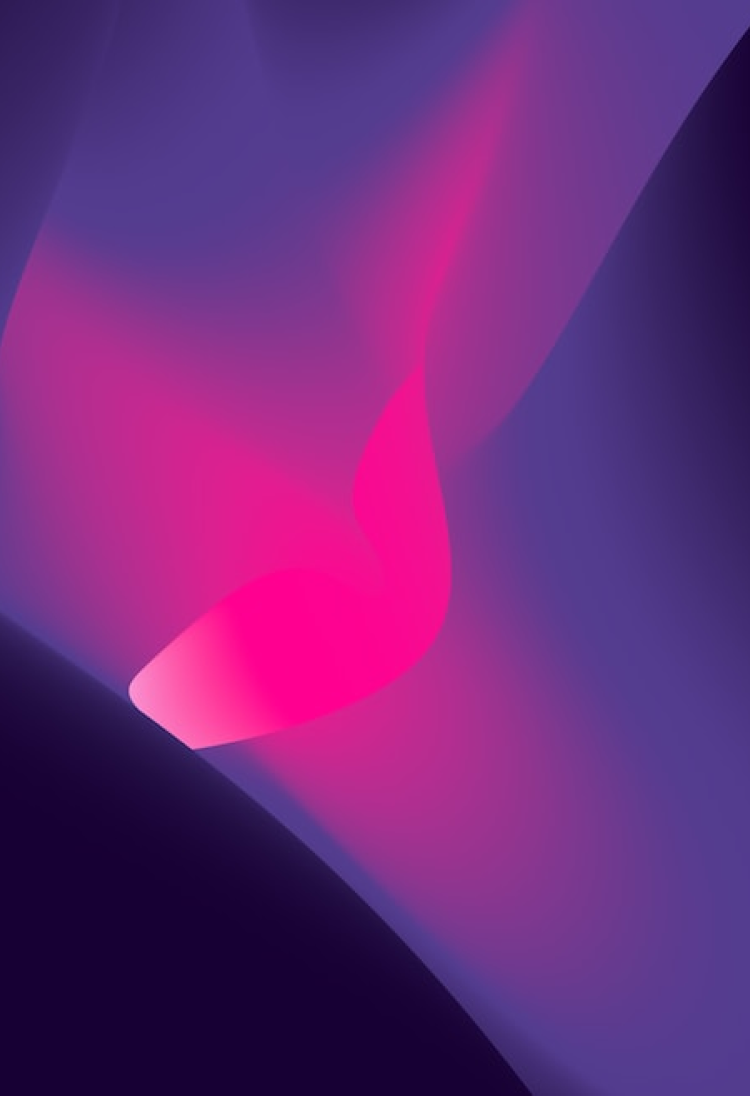
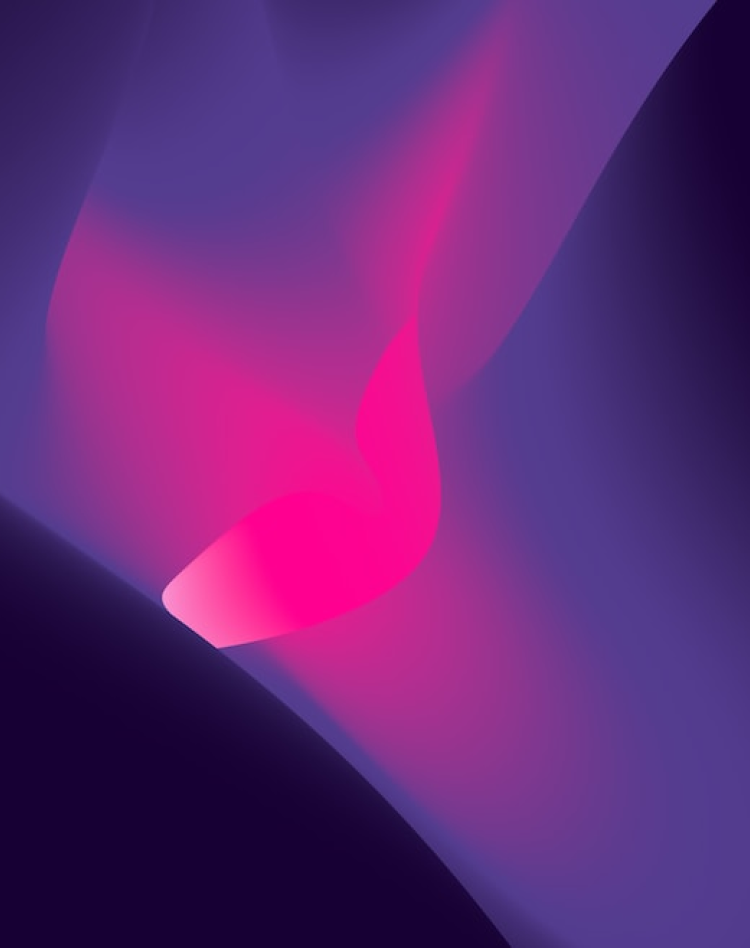
no message

diff --git a/src/login2.html b/src/login2.html
@@ -39,28 +39,27 @@
                 </h1>
                 <!-- logo -->
 
-                <div class="absolute top-[117px] left-6 z-50">
-                    <strong class="text-white block w-[284px] h-[68px] relative ">
+                <div class="absolute top-[102px] left-6 z-50">
+                    <strong class="text-white block w-[236px] h-[80px] relative ">
                         <img src="./img/login/no-bg-title.png" alt="노쇼노로 안전하게 약속하세요." class="absolute w-[283px] inset-0 z-20">
                     </strong>
                     <!-- // -->
 
                     <span class="block w-[68px] h-[5px] bg-white mt-3"></span>
 
-                    <span class="block text-white mt-[14px] text-[18px] leading-[21px]">
-                        약속이 지켜지면 <br>
-                        약속 보증금을 되돌려드립니다.
+                    <span class="block text-white mt-[10px] text-[16px] leading-6 font-semibold">
+                        중요한 약속은 <em class="text-[20px] font-[900]">노쇼노, 안전하게</em> 약속하세요.
                     </span>
                     <!-- // -->
 
-                    <em class="block mt-2 text-white text-[14px] leading-[17px]">
+                    <em class="block mt-5 text-white text-[14px] leading-[17px]">
                         *서비스수수료 제외
                     </em>
                 </div>
                 <!-- text -->
 
                 <div class="w-full h-full">
-                    <img src="./img/login/bg2.png" alt="배경" class="w-full">
+                    <img src="./img/login/bg2.png" alt="배경" class="h-full">
                 </div>
                 <!-- bg -->
 
@@ -95,7 +94,7 @@
 
             <!-- 개편 -->
             <div class="flex justify-center w-full mt-10 leading-5">
-                <span class="text-[16px] text-slate-900 font-bold">최근 로그인한 계정은 카카오입니다.</span>
+                <span class="text-[16px] text-[#0f172a] font-bold">최근 로그인한 계정은 카카오입니다.</span>
             </div>
             <!-- //개편 -->
 
@@ -124,7 +123,7 @@
             </div>
             <!-- txt -->
 
-            <footer class="" id="footer">
+            <!-- <footer class="" id="footer">
                 <svg class="mx-auto" fill="none" height="29" viewBox="0 0 70 29" width="70" xmlns="http://www.w3.org/2000/svg" xmlns:xlink="http://www.w3.org/1999/xlink">
                     <rect fill="url(#pattern0)" height="29" width="70" />
                     <defs>
@@ -139,7 +138,6 @@
                     <a href="#">이용약관</a>
                     <a href="#" class="font-bold">개인정보처리방침</a>
                 </div>
-                <!-- 하단 메뉴 -->
 
                 <address>
                     (주)씽크풀 서울시 영등포구 국제금융로70,15층(여의도동, 미원빌딩) <br>
@@ -147,7 +145,7 @@
                     <br><br>
                     Copyright since 1999 © ThinkPool Co.,Ltd. All Rights Reserved
                 </address>
-            </footer>
+            </footer> -->
             <!-- //footer -->
 
 

diff --git a/dist/output.css b/dist/output.css
@@ -834,16 +834,16 @@ button svg {
   top: -84px;
 }
 
+.top-\[102px\] {
+  top: 102px;
+}
+
 .top-\[10px\] {
   top: 10px;
 }
 
 .top-\[110px\] {
   top: 110px;
-}
-
-.top-\[117px\] {
-  top: 117px;
 }
 
 .top-\[120px\] {
@@ -1204,6 +1204,10 @@ button svg {
 
 .mt-\[108px\] {
   margin-top: 108px;
+}
+
+.mt-\[10px\] {
+  margin-top: 10px;
 }
 
 .mt-\[122px\] {
@@ -1825,6 +1829,10 @@ button svg {
 
 .w-\[21px\] {
   width: 21px;
+}
+
+.w-\[236px\] {
+  width: 236px;
 }
 
 .w-\[240px\] {
@@ -5106,24 +5114,24 @@ input[type="number"]::-webkit-inner-spin-button {
 
 @keyframes move-right {
   from {
-    left: -90px;
+    left: -115px;
     opacity: 0;
   }
 
   to {
-    left: 90px;
+    left: 115px;
     opacity: 1;
   }
 }
 
 @keyframes move-left {
   from {
-    left: 90px;
+    left: 115px;
     opacity: 0;
   }
 
   to {
-    left: 87px;
+    left: 112px;
     opacity: 1;
   }
 }
@@ -5134,28 +5142,28 @@ input[type="number"]::-webkit-inner-spin-button {
   }
 
   50% {
-    height: 170px;
+    height: 150px;
   }
 
   100% {
-    height: 150px;
+    height: 123px;
   }
 }
 
 @keyframes bounce2 {
   0% {
-    left: -40px;
-    bottom: -105px;
+    left: -90px;
+    bottom: -95px;
   }
 
-  50% {
-    left: 50px;
-    bottom: 115px;
+  40% {
+    left: 95px;
+    bottom: 100px;
   }
 
   100% {
-    left: 40px;
-    bottom: 105px;
+    left: 90px;
+    bottom: 95px;
   }
 }
 
@@ -5220,11 +5228,11 @@ input[type="number"]::-webkit-inner-spin-button {
 }
 
 #image1 {
-  left: 90px;
+  left: 115px;
   bottom: 0;
   animation: move-right 1.5s ease-in-out;
-  width: 395px;
-  height: 241px;
+  width: 342px;
+  height: 208px;
   background-image: url("../src/img/login/vector2.svg");
   background-size: 100% 100%;
   background-repeat: no-repeat;
@@ -5233,10 +5241,10 @@ input[type="number"]::-webkit-inner-spin-button {
 
 #image2 {
   opacity: 0;
-  left: 87px;
+  left: 112px;
   bottom: 0;
-  width: 395px;
-  height: 241px;
+  width: 342px;
+  height: 208px;
   background-image: url("../src/img/login/vector1.svg");
   background-size: 100% 100%;
   background-repeat: no-repeat;
@@ -5249,32 +5257,33 @@ input[type="number"]::-webkit-inner-spin-button {
 }
 
 #image3 {
-  width: 356px;
+  width: 293px;
   height: 0;
-  bottom: -50px;
-  left: -52px;
+  bottom: -35px;
+  left: -22px;
   background-image: url("../src/img/login/vector3.svg");
-  background-size: 356px 150px;
+  background-size: 293px 123px;
   background-repeat: no-repeat;
   background-position: 0 0;
 }
 
 #image3.active {
-  height: 150px;
+  height: 123px;
   animation: bounce1 0.5s ease-in-out;
 }
 
 #image4 {
-  left: -40px;
-  bottom: -85px;
+  left: -20px;
+  bottom: -55px;
   background: url("../src/img/login/vector4.svg");
-  width: 173px;
-  height: 92px;
+  background-size: cover;
+  width: 139px;
+  height: 74px;
 }
 
 #image4.active {
-  left: 40px;
-  bottom: 85px;
+  left: 90px;
+  bottom: 95px;
   animation: bounce2 0.6s ease-in-out;
 }
 

diff --git a/src/input.css b/src/input.css
@@ -984,21 +984,21 @@ input[type="number"]::-webkit-inner-spin-button {
 }
 @keyframes move-right {
   from {
-    left: -90px;
+    left: -115px;
     opacity: 0;
   }
   to {
-    left: 90px;
+    left: 115px;
     opacity: 1;
   }
 }
 @keyframes move-left {
   from {
-    left: 90px;
+    left: 115px;
     opacity: 0;
   }
   to {
-    left: 87px;
+    left: 112px;
     opacity: 1;
   }
 }
@@ -1007,24 +1007,24 @@ input[type="number"]::-webkit-inner-spin-button {
     height: 0;
   }
   50% {
-    height: 170px;
+    height: 150px;
   }
   100% {
-    height: 150px;
+    height: 123px;
   }
 }
 @keyframes bounce2 {
   0% {
-    left: -40px;
-    bottom: -105px;
+    left: -90px;
+    bottom: -95px;
   }
-  50% {
-    left: 50px;
-    bottom: 115px;
+  40% {
+    left: 95px;
+    bottom: 100px;
   }
   100% {
-    left: 40px;
-    bottom: 105px;
+    left: 90px;
+    bottom: 95px;
   }
 }
 @keyframes bounce3 {
@@ -1078,11 +1078,11 @@ input[type="number"]::-webkit-inner-spin-button {
 }
 
 #image1 {
-  left: 90px;
+  left: 115px;
   bottom: 0;
   animation: move-right 1.5s ease-in-out;
-  width: 395px;
-  height: 241px;
+  width: 342px;
+  height: 208px;
   background-image: url("../src/img/login/vector2.svg");
   background-size: 100% 100%;
   background-repeat: no-repeat;
@@ -1090,10 +1090,10 @@ input[type="number"]::-webkit-inner-spin-button {
 }
 #image2 {
   opacity: 0;
-  left: 87px;
+  left: 112px;
   bottom: 0;
-  width: 395px;
-  height: 241px;
+  width: 342px;
+  height: 208px;
   background-image: url("../src/img/login/vector1.svg");
   background-size: 100% 100%;
   background-repeat: no-repeat;
@@ -1104,29 +1104,30 @@ input[type="number"]::-webkit-inner-spin-button {
   animation: move-left 3s ease-in-out;
 }
 #image3 {
-  width: 356px;
+  width: 293px;
   height: 0;
-  bottom: -50px;
-  left: -52px;
+  bottom: -35px;
+  left: -22px;
   background-image: url("../src/img/login/vector3.svg");
-  background-size: 356px 150px;
+  background-size: 293px 123px;
   background-repeat: no-repeat;
   background-position: 0 0;
 }
 #image3.active {
-  height: 150px;
+  height: 123px;
   animation: bounce1 0.5s ease-in-out;
 }
 #image4 {
-  left: -40px;
-  bottom: -85px;
+  left: -20px;
+  bottom: -55px;
   background: url("../src/img/login/vector4.svg");
-  width: 173px;
-  height: 92px;
+  background-size: cover;
+  width: 139px;
+  height: 74px;
 }
 #image4.active {
-  left: 40px;
-  bottom: 85px;
+  left: 90px;
+  bottom: 95px;
   animation: bounce2 0.6s ease-in-out;
 }
 #image5 {
